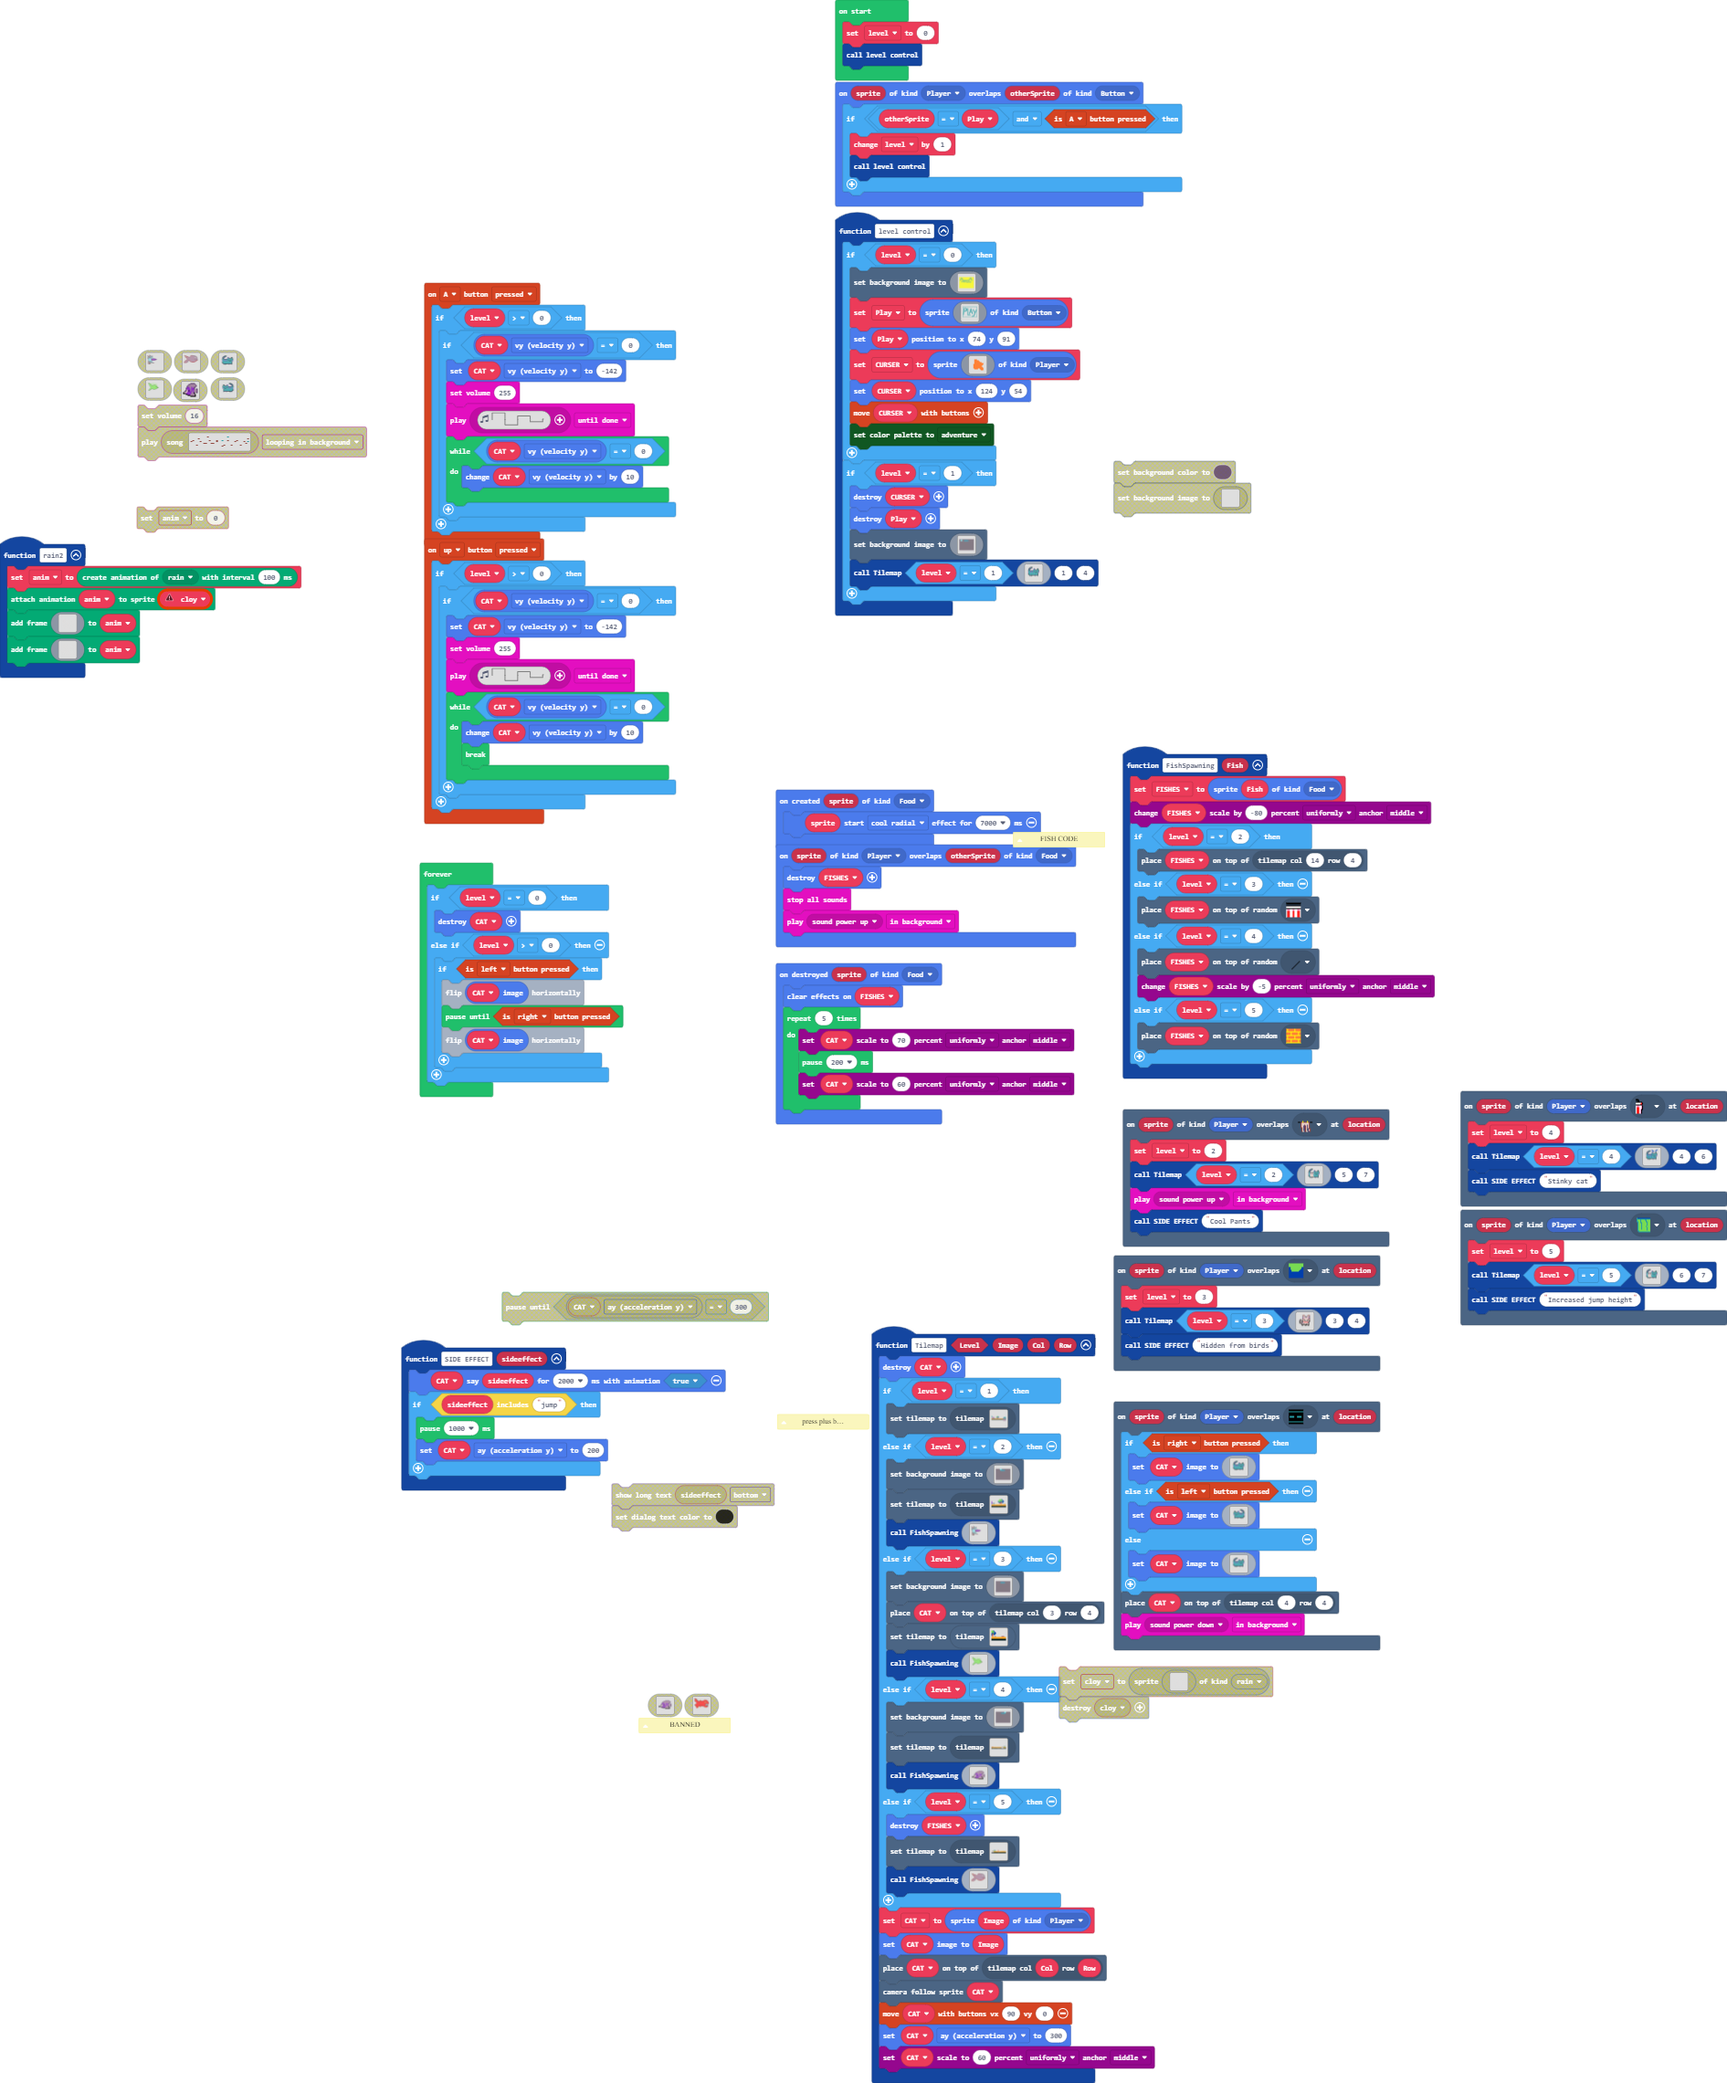
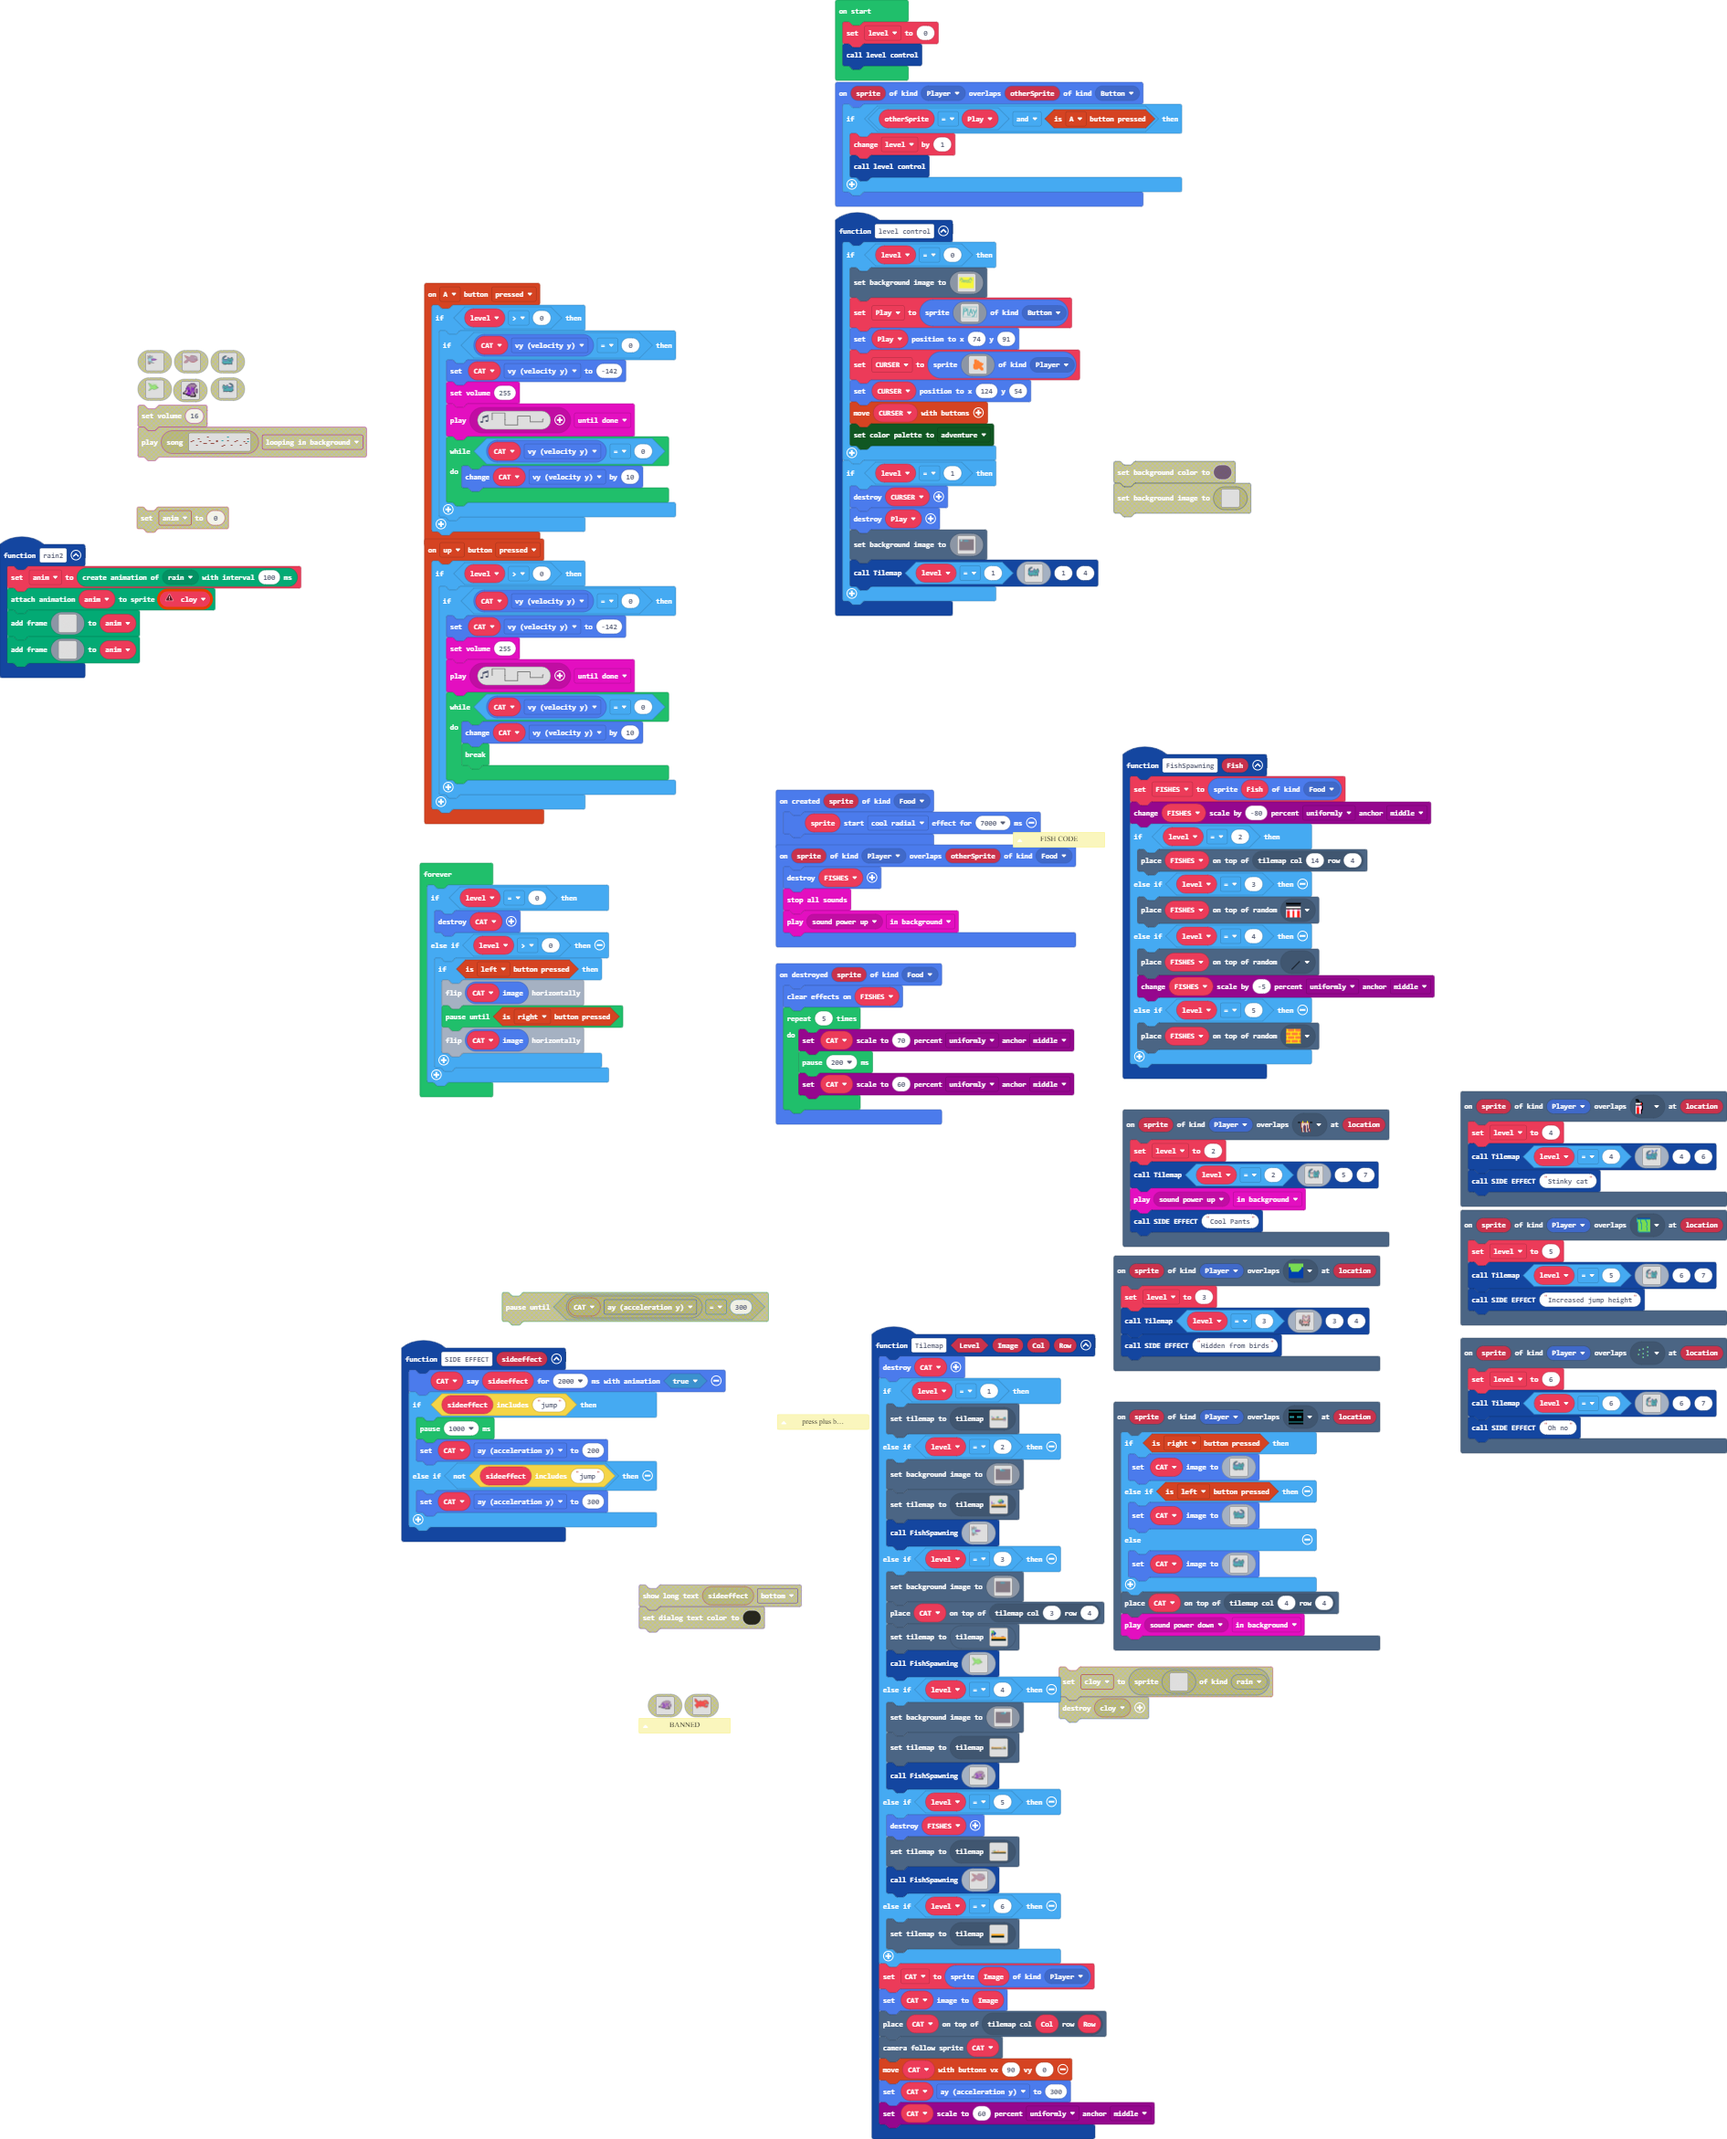
Somewhat level 6

diff --git a/tilemap.g.ts b/tilemap.g.ts
@@ -105,13 +105,13 @@ namespace myTiles {
     //% fixedInstance jres blockIdentity=images._tile
     export const tile51 = image.ofBuffer(hex``);
     //% fixedInstance jres blockIdentity=images._tile
-    export const tile55 = image.ofBuffer(hex``);
-    //% fixedInstance jres blockIdentity=images._tile
     export const tile52 = image.ofBuffer(hex``);
     //% fixedInstance jres blockIdentity=images._tile
     export const tile53 = image.ofBuffer(hex``);
     //% fixedInstance jres blockIdentity=images._tile
     export const tile57 = image.ofBuffer(hex``);
+    //% fixedInstance jres blockIdentity=images._tile
+    export const tile55 = image.ofBuffer(hex``);
 
     helpers._registerFactory("tilemap", function(name: string) {
         switch(helpers.stringTrim(name)) {
@@ -553,7 +553,7 @@ namespace myTiles {
 . . . . . . . . . . . . . . . . 
 `, [myTiles.transparency16], TileScale.Sixteen);
             case "LevelNum5":
[2 lines of base64/hex data omitted]
 .....2........................
 .....2........................
 .....2........................
@@ -570,7 +570,45 @@ namespace myTiles {
 ..............................
 ..............................
 ..............................
-`, [myTiles.transparency16,myTiles.tile9,myTiles.tile8,myTiles.tile47,myTiles.tile49,myTiles.tile37,myTiles.tile48,myTiles.tile41,myTiles.tile44,myTiles.tile45,myTiles.tile46,myTiles.tile50,myTiles.tile24,myTiles.tile3,myTiles.tile4,myTiles.tile5,myTiles.tile51,myTiles.tile52,myTiles.tile53,myTiles.tile57], TileScale.Sixteen);
+`, [myTiles.transparency16,myTiles.tile9,myTiles.tile8,myTiles.tile47,myTiles.tile49,myTiles.tile37,myTiles.tile48,myTiles.tile41,myTiles.tile44,myTiles.tile45,myTiles.tile46,myTiles.tile50,myTiles.tile3,myTiles.tile4,myTiles.tile5,myTiles.tile51,myTiles.tile52,myTiles.tile53,myTiles.tile57,myTiles.tile55], TileScale.Sixteen);
+            case "level25":
+            case "level25":return tiles.createTilemap(hex`1000100000000000000000000000000000000000000000000000000000000000000000000000000000000000000000000000000000000000000000000000000000000000000000000000000000000000000000000000000000000000000000000000000000000000000000000000000000000000000000000000000000000000000000000000000000000000000000000000000000000000000000000000000000000000000000000000000000000000000000000000000000000000000000000000000000000000000000000000000000000000000000000000000000000000000000000000000000000000000000000000000000000000000000000000000000000000`, img`
+. . . . . . . . . . . . . . . . 
+. . . . . . . . . . . . . . . . 
+. . . . . . . . . . . . . . . . 
+. . . . . . . . . . . . . . . . 
+. . . . . . . . . . . . . . . . 
+. . . . . . . . . . . . . . . . 
+. . . . . . . . . . . . . . . . 
+. . . . . . . . . . . . . . . . 
+. . . . . . . . . . . . . . . . 
+. . . . . . . . . . . . . . . . 
+. . . . . . . . . . . . . . . . 
+. . . . . . . . . . . . . . . . 
+. . . . . . . . . . . . . . . . 
+. . . . . . . . . . . . . . . . 
+. . . . . . . . . . . . . . . . 
+. . . . . . . . . . . . . . . . 
+`, [myTiles.transparency16], TileScale.Sixteen);
+            case "level26":
+            case "level26":return tiles.createTilemap(hex`1000100000000000000000000000000000000000000000000000000000000000000000000000000000000000000000000000000000000000000000000000000000000000000000000000000000000000000000000000000000000000000000000000000000000000000000000000000000000000000000000000000000000000000000000101010101010101010101010101000001010101010101010101010101010000020202020202020202020202020200000202020202020202020202020202000000000000000000000000000000000000000000000000000000000000000000000000000000000000000000000000000000000000000000000000000000000000`, img`
+. . . . . . . . . . . . . . . . 
+. . . . . . . . . . . . . . . . 
+. . . . . . . . . . . . . . . . 
+. . . . . . . . . . . . . . . . 
+. . . . . . . . . . . . . . . . 
+. . . . . . . . . . . . . . . . 
+. . . . . . . . . . . . . . . . 
+. . . . . . . . . . . . . . . . 
+2 2 2 2 2 2 2 2 2 2 2 2 2 2 . . 
+2 2 2 2 2 2 2 2 2 2 2 2 2 2 . . 
+. . . . . . . . . . . . . . . . 
+. . . . . . . . . . . . . . . . 
+. . . . . . . . . . . . . . . . 
+. . . . . . . . . . . . . . . . 
+. . . . . . . . . . . . . . . . 
+. . . . . . . . . . . . . . . . 
+`, [myTiles.transparency16,myTiles.tile9,myTiles.tile8], TileScale.Sixteen);
         }
         return null;
     })
@@ -679,14 +717,14 @@ namespace myTiles {
             case "tile50":return tile50;
             case "myTile47":
             case "tile51":return tile51;
-            case "myTile51":
-            case "tile55":return tile55;
             case "myTile48":
             case "tile52":return tile52;
             case "myTile49":
             case "tile53":return tile53;
             case "myTile53":
             case "tile57":return tile57;
+            case "myTile51":
+            case "tile55":return tile55;
         }
         return null;
     })

diff --git a/main.ts b/main.ts
@@ -30,6 +30,8 @@ function SIDE_EFFECT (sideeffect: string) {
     if (sideeffect.includes("jump")) {
         pause(1000)
         CAT.ay = 200
+    } else if (!(sideeffect.includes("jump"))) {
+        CAT.ay = 300
     }
 }
 /**
@@ -540,6 +542,8 @@ function Tilemap (Level: boolean, Image2: Image, Col: number, Row: number) {
         sprites.destroy(FISHES)
         tiles.setCurrentTilemap(tilemap`LevelNum5`)
         FishSpawning(assets.image`222`)
+    } else if (level == 6) {
+        tiles.setCurrentTilemap(tilemap`level26`)
     }
     CAT = sprites.create(Image2, SpriteKind.Player)
     CAT.setImage(Image2)
@@ -1275,6 +1279,62 @@ sprites.onOverlap(SpriteKind.Player, SpriteKind.Button, function (sprite, otherS
         level += 1
         level_control()
     }
+})
+scene.onOverlapTile(SpriteKind.Player, assets.tile`myTile51`, function (sprite, location) {
+    level = 6
+    Tilemap(level == 6, img`
+        ..................................................
+        ..................................................
+        ..................................................
+        ..................................................
+        .................fff..............................
+        .............fffff6f..............................
+        ............ff66666f..............................
+        ..........fff66aa6ff..............................
+        .........ff6666fff................................
+        ........ff6aaaff..........a...........f...........
+        .......ff666af...........aaf.........fff..........
+        .......f6666ff..........aa6ff.......ff6ff.........
+        .......f6aaaf...........a666f.......f666f.........
+        .......f6aaf............a666f.......f666f.........
+        ......ff666f...........a66666fffffff6666ff........
+        ......f6666f...........f6666666a6a6666666f........
+        ......f6666fffffffffffff6666666a6a66666666f.......
+        ......f66666ddccdddccddd666666666666666666f.......
+        ......f6666dddccdddccddd6666f6666666f66666f.......
+        ......a6666dddccdddccddd666f6f66666f6f6666a.......
+        ......a6666dddccdddccddd66f666f666f666f666a.......
+        ......a6666dddccdddccddd666666666666666666a.......
+        ......a6666dddccdddccdd6663336f6ff6f633366a.......
+        ......a6666dddddddddddd66666666f66f666666a........
+        ......a6666dddddddddddd66666666666666666f.........
+        ......f6666dddddddddddd6666666666666666f..........
+        ......f6666dddddddddddd666666666666666f...........
+        ......f6666dddddddddddd6666666666666666f..........
+        ......f66666ddddddddddd6666666666666666f..........
+        ......ff6666dddddddddddd666666666666666f..........
+        .......ff666dddddddddddd666666666666666f..........
+        ........fff66ddddddddddd6666666f6666666f..........
+        ..........f666dfffffffffffffaaafffffaa6f..........
+        ..........faaaff666f.......f66f.....f66f..........
+        ...........fff..fff.........ff.......ff...........
+        ..................................................
+        ..................................................
+        ..................................................
+        ..................................................
+        ..................................................
+        ..................................................
+        ..................................................
+        ..................................................
+        ..................................................
+        ..................................................
+        ..................................................
+        ..................................................
+        ..................................................
+        ..................................................
+        ..................................................
+        `, 6, 7)
+    SIDE_EFFECT("Oh no")
 })
 scene.onOverlapTile(SpriteKind.Player, assets.tile`myTile23`, function (sprite, location) {
     level = 3
